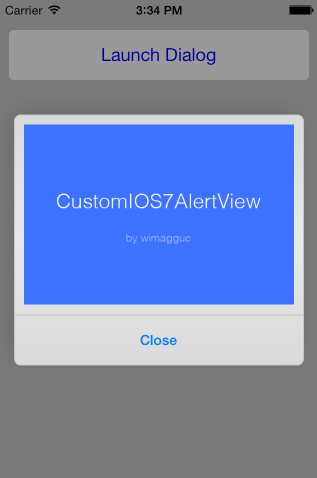
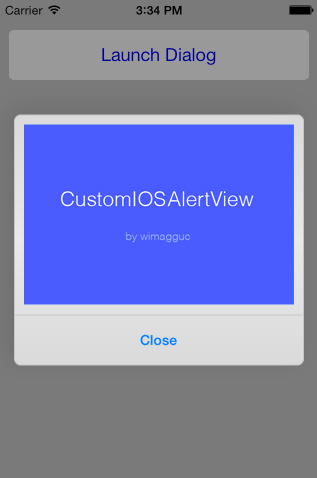
[rename] CustomIOSAlertView

Changed region(s): [[0.1703, 0.3808, 0.8233, 0.4393], [0.3975, 0.4686, 0.5962, 0.5272]]

diff --git a/CustomIOSAlertView/CustomIOSAlertView/View/CustomIOSAlertView.m b/CustomIOSAlertView/CustomIOSAlertView/View/CustomIOSAlertView.m
@@ -1,23 +1,23 @@
 //
-//  CustomIOS7AlertView.m
-//  CustomIOS7AlertView
+//  CustomIOSAlertView.m
+//  CustomIOSAlertView
 //
 //  Created by Richard on 20/09/2013.
-//  Copyright (c) 2013 Wimagguc.
+//  Copyright (c) 2013-2015 Wimagguc.
 //
 //  Lincesed under The MIT License (MIT)
 //  http://opensource.org/licenses/MIT
 //
 
-#import "CustomIOS7AlertView.h"
+#import "CustomIOSAlertView.h"
 #import <QuartzCore/QuartzCore.h>
 
-const static CGFloat kCustomIOS7AlertViewDefaultButtonHeight       = 50;
-const static CGFloat kCustomIOS7AlertViewDefaultButtonSpacerHeight = 1;
-const static CGFloat kCustomIOS7AlertViewCornerRadius              = 7;
-const static CGFloat kCustomIOS7MotionEffectExtent                 = 10.0;
+const static CGFloat kCustomIOSAlertViewDefaultButtonHeight       = 50;
+const static CGFloat kCustomIOSAlertViewDefaultButtonSpacerHeight = 1;
+const static CGFloat kCustomIOSAlertViewCornerRadius              = 7;
+const static CGFloat kCustomIOS7MotionEffectExtent                = 10.0;
 
-@implementation CustomIOS7AlertView
+@implementation CustomIOSAlertView
 
 CGFloat buttonHeight = 0;
 CGFloat buttonSpacerHeight = 0;
@@ -132,7 +132,7 @@ CGFloat buttonSpacerHeight = 0;
 }
 
 // Default button behaviour
-- (void)customIOS7dialogButtonTouchUpInside: (CustomIOS7AlertView *)alertView clickedButtonAtIndex:(NSInteger)buttonIndex
+- (void)customIOS7dialogButtonTouchUpInside: (CustomIOSAlertView *)alertView clickedButtonAtIndex:(NSInteger)buttonIndex
 {
     NSLog(@"Button Clicked! %d, %d", (int)buttonIndex, (int)[alertView tag]);
     [self close];
@@ -194,7 +194,7 @@ CGFloat buttonSpacerHeight = 0;
                        (id)[[UIColor colorWithRed:218.0/255.0 green:218.0/255.0 blue:218.0/255.0 alpha:1.0f] CGColor],
                        nil];
 
-    CGFloat cornerRadius = kCustomIOS7AlertViewCornerRadius;
+    CGFloat cornerRadius = kCustomIOSAlertViewCornerRadius;
     gradient.cornerRadius = cornerRadius;
     [dialogContainer.layer insertSublayer:gradient atIndex:0];
 
@@ -242,7 +242,7 @@ CGFloat buttonSpacerHeight = 0;
         [closeButton setTitleColor:[UIColor colorWithRed:0.0f green:0.5f blue:1.0f alpha:1.0f] forState:UIControlStateNormal];
         [closeButton setTitleColor:[UIColor colorWithRed:0.2f green:0.2f blue:0.2f alpha:0.5f] forState:UIControlStateHighlighted];
         [closeButton.titleLabel setFont:[UIFont boldSystemFontOfSize:14.0f]];
-        [closeButton.layer setCornerRadius:kCustomIOS7AlertViewCornerRadius];
+        [closeButton.layer setCornerRadius:kCustomIOSAlertViewCornerRadius];
 
         [container addSubview:closeButton];
     }
@@ -261,8 +261,8 @@ CGFloat buttonSpacerHeight = 0;
 - (CGSize)countScreenSize
 {
     if (buttonTitles!=NULL && [buttonTitles count] > 0) {
-        buttonHeight       = kCustomIOS7AlertViewDefaultButtonHeight;
-        buttonSpacerHeight = kCustomIOS7AlertViewDefaultButtonSpacerHeight;
+        buttonHeight       = kCustomIOSAlertViewDefaultButtonHeight;
+        buttonSpacerHeight = kCustomIOSAlertViewDefaultButtonSpacerHeight;
     } else {
         buttonHeight = 0;
         buttonSpacerHeight = 0;

diff --git a/CustomIOSAlertView/CustomIOSAlertView/View/CustomIOSAlertView.h b/CustomIOSAlertView/CustomIOSAlertView/View/CustomIOSAlertView.h
@@ -1,9 +1,9 @@
 //
-//  CustomIOS7AlertView.h
-//  CustomIOS7AlertView
+//  CustomIOSAlertView.h
+//  CustomIOSAlertView
 //
 //  Created by Richard on 20/09/2013.
-//  Copyright (c) 2013 Wimagguc.
+//  Copyright (c) 2013-2015 Wimagguc.
 //
 //  Lincesed under The MIT License (MIT)
 //  http://opensource.org/licenses/MIT
@@ -11,28 +11,28 @@
 
 #import <UIKit/UIKit.h>
 
-@protocol CustomIOS7AlertViewDelegate
+@protocol CustomIOSAlertViewDelegate
 
 - (void)customIOS7dialogButtonTouchUpInside:(id)alertView clickedButtonAtIndex:(NSInteger)buttonIndex;
 
 @end
 
-@interface CustomIOS7AlertView : UIView<CustomIOS7AlertViewDelegate>
+@interface CustomIOSAlertView : UIView<CustomIOSAlertViewDelegate>
 
 @property (nonatomic, retain) UIView *parentView;    // The parent view this 'dialog' is attached to
 @property (nonatomic, retain) UIView *dialogView;    // Dialog's container view
 @property (nonatomic, retain) UIView *containerView; // Container within the dialog (place your ui elements here)
 
-@property (nonatomic, assign) id<CustomIOS7AlertViewDelegate> delegate;
+@property (nonatomic, assign) id<CustomIOSAlertViewDelegate> delegate;
 @property (nonatomic, retain) NSArray *buttonTitles;
 @property (nonatomic, assign) BOOL useMotionEffects;
 
-@property (copy) void (^onButtonTouchUpInside)(CustomIOS7AlertView *alertView, int buttonIndex) ;
+@property (copy) void (^onButtonTouchUpInside)(CustomIOSAlertView *alertView, int buttonIndex) ;
 
 - (id)init;
 
 /*!
- DEPRECATED: Use the [CustomIOS7AlertView init] method without passing a parent view.
+ DEPRECATED: Use the [CustomIOSAlertView init] method without passing a parent view.
  */
 - (id)initWithParentView: (UIView *)_parentView __attribute__ ((deprecated));
 
@@ -40,7 +40,7 @@
 - (void)close;
 
 - (IBAction)customIOS7dialogButtonTouchUpInside:(id)sender;
-- (void)setOnButtonTouchUpInside:(void (^)(CustomIOS7AlertView *alertView, int buttonIndex))onButtonTouchUpInside;
+- (void)setOnButtonTouchUpInside:(void (^)(CustomIOSAlertView *alertView, int buttonIndex))onButtonTouchUpInside;
 
 - (void)deviceOrientationDidChange: (NSNotification *)notification;
 - (void)dealloc;

diff --git a/CustomIOSAlertView/CustomIOSAlertView/ViewController.m b/CustomIOSAlertView/CustomIOSAlertView/ViewController.m
@@ -1,9 +1,9 @@
 //
 //  ViewController.m
-//  CustomIOS7AlertView
+//  CustomIOSAlertView
 //
 //  Created by Richard on 20/09/2013.
-//  Copyright (c) 2013 Wimagguc.
+//  Copyright (c) 2013-2015 Wimagguc.
 //
 //  Lincesed under The MIT License (MIT)
 //  http://opensource.org/licenses/MIT
@@ -39,7 +39,7 @@
 - (IBAction)launchDialog:(id)sender
 {
     // Here we need to pass a full frame
-    CustomIOS7AlertView *alertView = [[CustomIOS7AlertView alloc] init];
+    CustomIOSAlertView *alertView = [[CustomIOSAlertView alloc] init];
 
     // Add some custom content to the alert view
     [alertView setContainerView:[self createDemoView]];
@@ -49,7 +49,7 @@
     [alertView setDelegate:self];
     
     // You may use a Block, rather than a delegate.
-    [alertView setOnButtonTouchUpInside:^(CustomIOS7AlertView *alertView, int buttonIndex) {
+    [alertView setOnButtonTouchUpInside:^(CustomIOSAlertView *alertView, int buttonIndex) {
         NSLog(@"Block: Button at position %d is clicked on alertView %d.", buttonIndex, (int)[alertView tag]);
         [alertView close];
     }];
@@ -60,7 +60,7 @@
     [alertView show];
 }
 
-- (void)customIOS7dialogButtonTouchUpInside: (CustomIOS7AlertView *)alertView clickedButtonAtIndex: (NSInteger)buttonIndex
+- (void)customIOS7dialogButtonTouchUpInside: (CustomIOSAlertView *)alertView clickedButtonAtIndex: (NSInteger)buttonIndex
 {
     NSLog(@"Delegate: Button at position %d is clicked on alertView %d.", (int)buttonIndex, (int)[alertView tag]);
     [alertView close];

diff --git a/CustomIOSAlertView/CustomIOSAlertView/ViewController.h b/CustomIOSAlertView/CustomIOSAlertView/ViewController.h
@@ -1,17 +1,17 @@
 //
 //  ViewController.h
-//  CustomIOS7AlertView
+//  CustomIOSAlertView
 //
 //  Created by Richard on 20/09/2013.
-//  Copyright (c) 2013 Wimagguc.
+//  Copyright (c) 2013-2015 Wimagguc.
 //
 //  Lincesed under The MIT License (MIT)
 //  http://opensource.org/licenses/MIT
 //
 
 #import <UIKit/UIKit.h>
-#import "CustomIOS7AlertView.h"
+#import "CustomIOSAlertView.h"
 
-@interface ViewController : UIViewController<CustomIOS7AlertViewDelegate>
+@interface ViewController : UIViewController<CustomIOSAlertViewDelegate>
 
 @end

diff --git a/CustomIOSAlertView/CustomIOSAlertView/AppDelegate.h b/CustomIOSAlertView/CustomIOSAlertView/AppDelegate.h
@@ -1,9 +1,9 @@
 //
 //  AppDelegate.h
-//  CustomIOS7AlertView
+//  CustomIOSAlertView
 //
 //  Created by Richard on 20/09/2013.
-//  Copyright (c) 2013 Wimagguc.
+//  Copyright (c) 2013-2015 Wimagguc.
 //
 //  Lincesed under The MIT License (MIT)
 //  http://opensource.org/licenses/MIT

diff --git a/CustomIOSAlertView/CustomIOSAlertView/AppDelegate.m b/CustomIOSAlertView/CustomIOSAlertView/AppDelegate.m
@@ -1,9 +1,9 @@
 //
 //  AppDelegate.m
-//  CustomIOS7AlertView
+//  CustomIOSAlertView
 //
 //  Created by Richard on 20/09/2013.
-//  Copyright (c) 2013 Wimagguc.
+//  Copyright (c) 2013-2015 Wimagguc.
 //
 //  Lincesed under The MIT License (MIT)
 //  http://opensource.org/licenses/MIT

diff --git a/CustomIOSAlertView/CustomIOSAlertView/main.m b/CustomIOSAlertView/CustomIOSAlertView/main.m
@@ -1,9 +1,9 @@
 //
 //  main.m
-//  CustomIOS7AlertView
+//  CustomIOSAlertView
 //
 //  Created by Richard on 20/09/2013.
-//  Copyright (c) 2013 Wimagguc. All rights reserved.
+//  Copyright (c) 2013-2015 Wimagguc.
 //
 
 #import <UIKit/UIKit.h>

diff --git a/README.md b/README.md
@@ -1,10 +1,12 @@
-# Custom iOS7 AlertView
+# Custom iOS AlertView
 
-`v0.81`
+`v0.9`
 
-The addSubview is not available in UIAlertView in iOS7 any more. The view hierarchy for this class is private and must not be modified.
+`support for both iOS7 and iOS8`
 
-As a solution, this class creates an iOS7-style dialog which you can extend with any UIViews or buttons. The animations and the looks are copied too and no images or other resources are needed.
+The addSubview is not available in UIAlertView in iOS7 or iOS8 any more. The view hierarchy for this class is private and must not be modified.
+
+As a solution, this class creates an iOS-style dialog which you can extend with any UIViews or buttons. The animations and the looks are copied too and no images or other resources are needed.
 
 ![A demo screen](Docs/screen.png)
 
@@ -12,21 +14,25 @@ As a solution, this class creates an iOS7-style dialog which you can extend with
 
 As simple as adding the following files to your project:
 
-* CustomIOS7AlertView.h
-* CustomIOS7AlertView.m
+* CustomIOSAlertView.h
+* CustomIOSAlertView.m
 
 ## Change notes
 
-The initWithParentView method is now deprecated. Please use the init method instead, where you don't need to pass a parent view at all. **In case the init doesn't work for you, please leave a note or open an issue here.**
+* Fixed rotation for IOS8
+
+* Removed 7 from the class name. Just use CustomIOSAlertView from now on, like: [[CustomIOSAlertView alloc] init];
+
+* The initWithParentView method is now deprecated. Please use the init method instead, where you don't need to pass a parent view at all. **In case the init doesn't work for you, please leave a note or open an issue here.**
 
 ## Quick start guide
 
 1. Create the UIView object `changed`
 
     ```
-    CustomIOS7AlertView *alertView = [[CustomIOS7AlertView alloc] init];
+    CustomIOSAlertView *alertView = [[CustomIOSAlertView alloc] init];
     ```
-  
+
 2. Add some custom content to the alert view (optional)
 
     ```
@@ -78,7 +84,7 @@ The initWithParentView method is now deprecated. Please use the init method inst
     Then add the delegate methods:
 
     ```
-    - (void)customIOS7dialogButtonTouchUpInside: (CustomIOS7AlertView *)alertView clickedButtonAtIndex: (NSInteger)buttonIndex
+    - (void)customIOS7dialogButtonTouchUpInside: (CustomIOSAlertView *)alertView clickedButtonAtIndex: (NSInteger)buttonIndex
     {
         NSLog(@"Button at position %d is clicked on alertView %d.", buttonIndex, [alertView tag]);
     }
@@ -87,7 +93,7 @@ The initWithParentView method is now deprecated. Please use the init method inst
 * Handle button clicks with a code block
 
     ```
-    [alertView setOnButtonTouchUpInside:^(CustomIOS7AlertView *alertView, int buttonIndex) {
+    [alertView setOnButtonTouchUpInside:^(CustomIOSAlertView *alertView, int buttonIndex) {
         NSLog(@"Block: Button at position %d is clicked on alertView %d.", buttonIndex, [alertView tag]);
         [alertView close];
     }];
@@ -147,7 +153,7 @@ THE SOFTWARE.
 
 ## Other projects
 
-Check out [AppWoodoo](http://www.appwoodoo.com/), our remote app settings (and A/B testing) service. It's open source and free to use.
+Check out [AppWoodoo](http://www.appwoodoo.com/) for push notifications and remote app control service. Open source SDKs are available on Github: [github.com/appwoodoo](https://github.com/appwoodoo?tab=repositories).
 
 Some more of my free stuff for web devs at [Github](https://github.com/wimagguc?tab=repositories).
 
